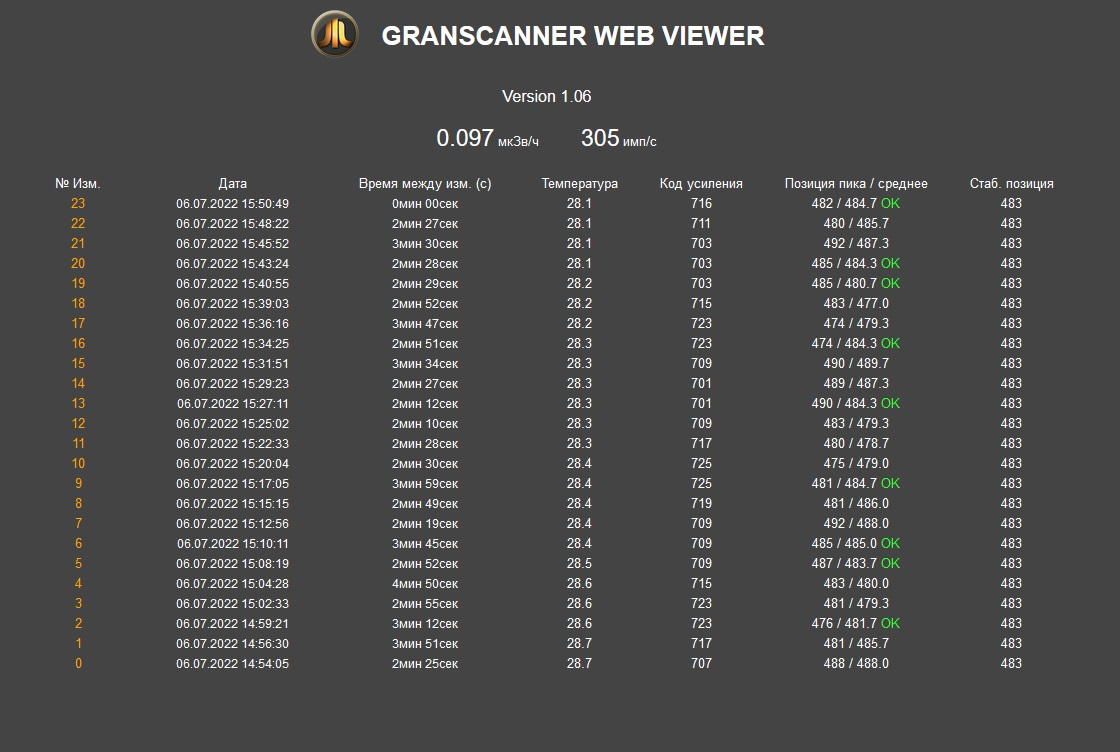
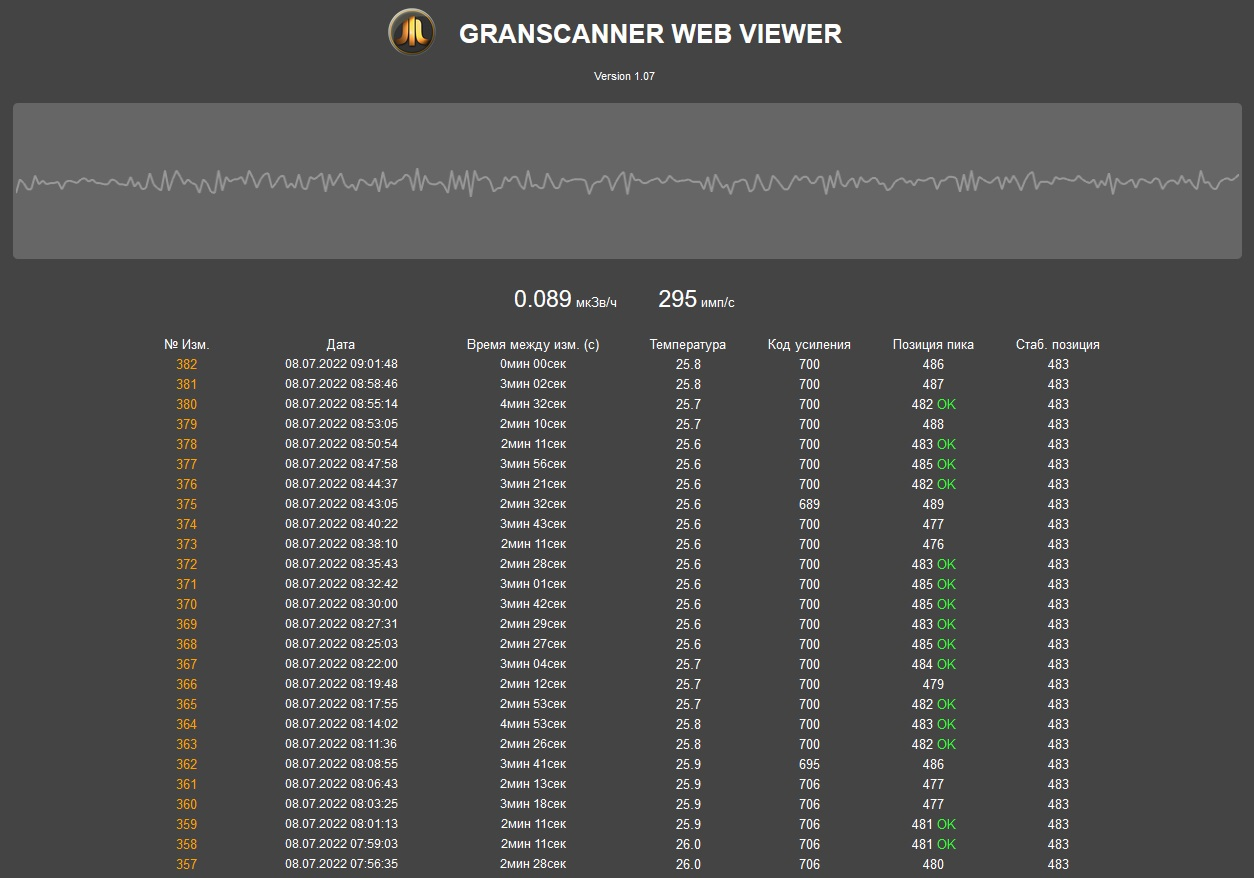
1.07 - 08/07/22 1. По-мелочи

Changed region(s): [[0.0, 0.0, 1.0, 1.0], [0.8125, 0.887, 0.875, 0.9481], [0.8438, 0.9787, 0.875, 1.0]]

diff --git a/public/js/grafika.js b/public/js/grafika.js
@@ -6,6 +6,7 @@ const COLOR_GRAY = '#999999';
 const LINE_WIDTH = 2;
 const STEP = 4;
 const HEIGHT = 150;
+const SPACE = 0.1;
 
 class gLine {
   ctx;
@@ -38,9 +39,9 @@ class gLine {
       if (arr[i]<this.minY) this.minY = arr[i];
     }
 
-    //добавить 20% расстояние между краем поля и максимумом/минимумом графика
-    this.minY = this.minY-(this.minY*0.2);
-    this.maxY = this.maxY+(this.maxY*0.2);
+    //добавить 10% расстояние между краем поля и максимумом/минимумом графика
+    this.minY = this.minY-(this.minY*SPACE);
+    this.maxY = this.maxY+(this.maxY*SPACE);
 
     console.log('maxY='+this.maxY+' minY='+this.minY);
     console.log('height/(maxY - minY) ='+HEIGHT/(this.maxY - this.minY));

diff --git a/public/js/main.js b/public/js/main.js
@@ -66,7 +66,7 @@ function addData(arr) {
         '  <td>Время между изм. (с)</td>'+
         '  <td>Температура</td>'+
         '  <td>Код усиления</td>'+
-        '  <td>Позиция пика / среднее</td>'+
+        '  <td>Позиция пика</td>'+
         '  <td>Стаб. позиция</td>'+
         '</tr>';
 

diff --git a/VERSION.md b/VERSION.md
@@ -1,5 +1,7 @@
 # GranScanner WebViewer
 
+* <b>1.07 - 08/07/22</b>
+1. По-мелочи
 * <b>1.07 - 07/07/22</b>
 1. Добавил отображение позиции пика в виде графика. Вообще там сделан отдельный класс, поэтому сейчас добавить любые графики будет просто
 * <b>1.06 - 06/07/22</b>
